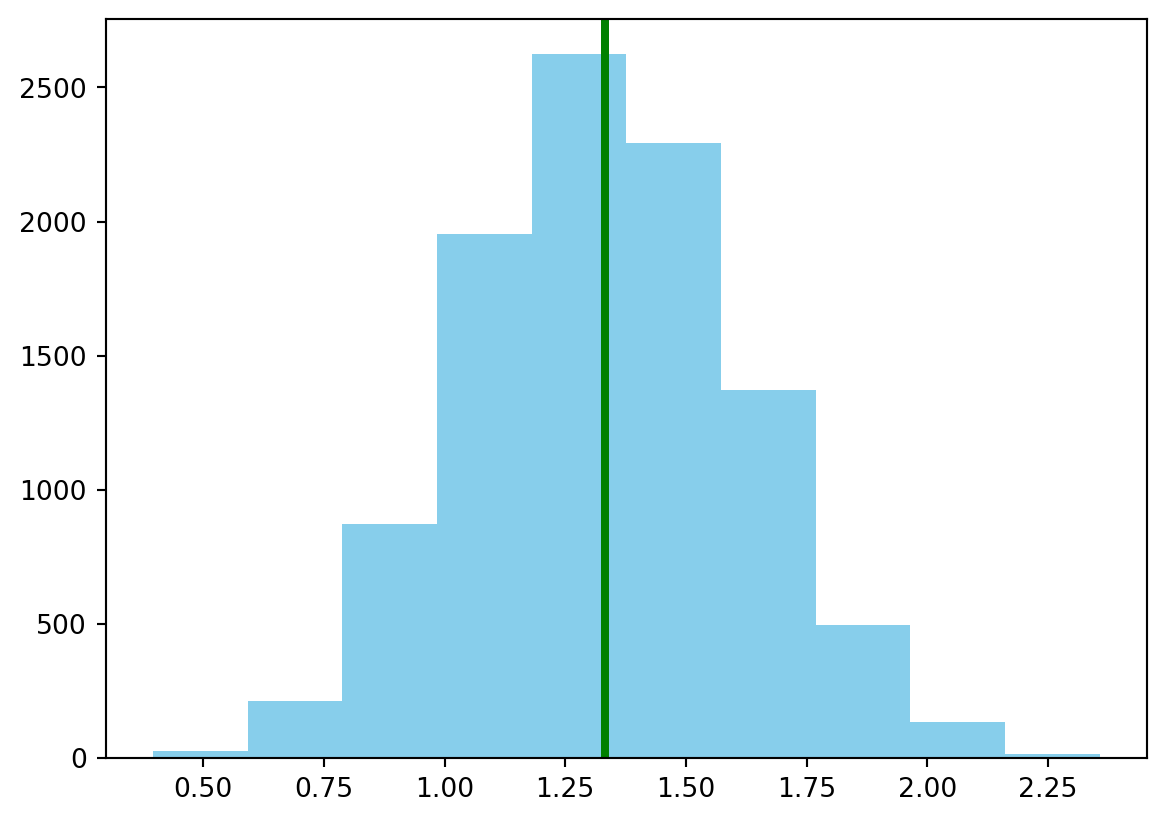
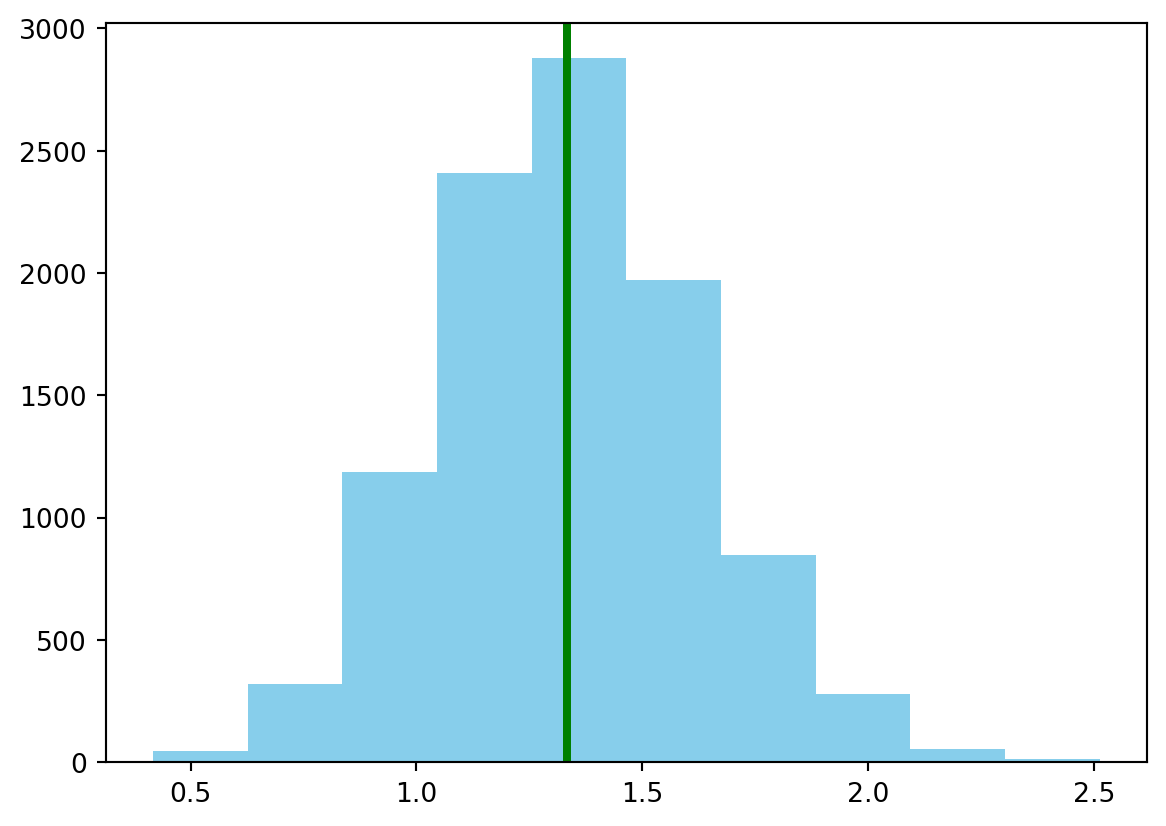
homework5

diff --git a/docs/posts/hw5/index.html b/docs/posts/hw5/index.html
@@ -203,7 +203,7 @@ pre > code.sourceCode > span > a:first-child::before { text-decoration: underlin
 </section>
 <section id="q1-1-n-1로-나눈-것을-s_2-n으로-나눈-것을-k_2로-정의하고-s_2의-분포와-k_2의-분포를-그려주세요-10000개-사용" class="level2">
 <h2 class="anchored" data-anchor-id="q1-1-n-1로-나눈-것을-s_2-n으로-나눈-것을-k_2로-정의하고-s_2의-분포와-k_2의-분포를-그려주세요-10000개-사용">Q1-1 n-1로 나눈 것을 s_2, n으로 나눈 것을 k_2로 정의하고, s_2의 분포와 k_2의 분포를 그려주세요! (10000개 사용)</h2>
-<div id="59c0f04f" class="cell" data-execution_count="1">
+<div id="782e0a3d" class="cell" data-execution_count="1">
 <div class="sourceCode cell-code" id="cb1"><pre class="sourceCode python code-with-copy"><code class="sourceCode python"><span id="cb1-1"><a href="#cb1-1" aria-hidden="true" tabindex="-1"></a><span class="im">from</span> scipy.stats <span class="im">import</span> uniform</span>
 <span id="cb1-2"><a href="#cb1-2" aria-hidden="true" tabindex="-1"></a><span class="im">import</span> numpy <span class="im">as</span> np</span>
 <span id="cb1-3"><a href="#cb1-3" aria-hidden="true" tabindex="-1"></a><span class="im">import</span> matplotlib.pyplot <span class="im">as</span> plt</span>
@@ -224,7 +224,7 @@ pre > code.sourceCode > span > a:first-child::before { text-decoration: underlin
 <div class="cell-output cell-output-display">
 <div>
 <figure class="figure">
-<p><img src="index_files/figure-html/cell-2-output-1.png" width="583" height="411" class="figure-img"></p>
+<p><img src="index_files/figure-html/cell-2-output-1.png" width="583" height="413" class="figure-img"></p>
 </figure>
 </div>
 </div>
@@ -232,7 +232,7 @@ pre > code.sourceCode > span > a:first-child::before { text-decoration: underlin
 <pre><code>&lt;Figure size 672x480 with 0 Axes&gt;</code></pre>
 </div>
 </div>
-<div id="d1550427" class="cell" data-execution_count="2">
+<div id="72afce03" class="cell" data-execution_count="2">
 <div class="sourceCode cell-code" id="cb3"><pre class="sourceCode python code-with-copy"><code class="sourceCode python"><span id="cb3-1"><a href="#cb3-1" aria-hidden="true" tabindex="-1"></a><span class="im">from</span> scipy.stats <span class="im">import</span> uniform</span>
 <span id="cb3-2"><a href="#cb3-2" aria-hidden="true" tabindex="-1"></a><span class="im">import</span> numpy <span class="im">as</span> np</span>
 <span id="cb3-3"><a href="#cb3-3" aria-hidden="true" tabindex="-1"></a><span class="im">import</span> matplotlib.pyplot <span class="im">as</span> plt</span>
@@ -264,32 +264,23 @@ pre > code.sourceCode > span > a:first-child::before { text-decoration: underlin
 </section>
 <section id="q1-2-각-분포-그래프에-모분산의-위치에-녹색-막대를-그려주세요." class="level2">
 <h2 class="anchored" data-anchor-id="q1-2-각-분포-그래프에-모분산의-위치에-녹색-막대를-그려주세요.">Q1-2 각 분포 그래프에 모분산의 위치에 녹색 막대를 그려주세요.</h2>
-<div id="896c6554" class="cell" data-execution_count="3">
+<div id="1244ebe8" class="cell" data-execution_count="3">
 <div class="sourceCode cell-code" id="cb5"><pre class="sourceCode python code-with-copy"><code class="sourceCode python"><span id="cb5-1"><a href="#cb5-1" aria-hidden="true" tabindex="-1"></a><span class="im">from</span> scipy.stats <span class="im">import</span> uniform</span>
-<span id="cb5-2"><a href="#cb5-2" aria-hidden="true" tabindex="-1"></a><span class="im">import</span> numpy <span class="im">as</span> np</span>
-<span id="cb5-3"><a href="#cb5-3" aria-hidden="true" tabindex="-1"></a><span class="im">import</span> matplotlib.pyplot <span class="im">as</span> plt</span>
+<span id="cb5-2"><a href="#cb5-2" aria-hidden="true" tabindex="-1"></a><span class="im">import</span> matplotlib.pyplot <span class="im">as</span> plt</span>
+<span id="cb5-3"><a href="#cb5-3" aria-hidden="true" tabindex="-1"></a></span>
 <span id="cb5-4"><a href="#cb5-4" aria-hidden="true" tabindex="-1"></a></span>
-<span id="cb5-5"><a href="#cb5-5" aria-hidden="true" tabindex="-1"></a><span class="co"># X ~ U(3,7)</span></span>
-<span id="cb5-6"><a href="#cb5-6" aria-hidden="true" tabindex="-1"></a><span class="co"># 균일분포에선 loc = a, scale = b - a</span></span>
-<span id="cb5-7"><a href="#cb5-7" aria-hidden="true" tabindex="-1"></a></span>
-<span id="cb5-8"><a href="#cb5-8" aria-hidden="true" tabindex="-1"></a>x <span class="op">=</span> uniform.rvs(loc <span class="op">=</span> <span class="dv">3</span>, scale <span class="op">=</span> <span class="dv">4</span>, size <span class="op">=</span> <span class="dv">20</span> <span class="op">*</span> <span class="dv">10000</span>)</span>
-<span id="cb5-9"><a href="#cb5-9" aria-hidden="true" tabindex="-1"></a>x <span class="op">=</span> x.reshape(<span class="op">-</span><span class="dv">1</span>, <span class="dv">20</span>)</span>
+<span id="cb5-5"><a href="#cb5-5" aria-hidden="true" tabindex="-1"></a>plt.hist(s_2, color <span class="op">=</span> <span class="st">"skyblue"</span>)</span>
+<span id="cb5-6"><a href="#cb5-6" aria-hidden="true" tabindex="-1"></a></span>
+<span id="cb5-7"><a href="#cb5-7" aria-hidden="true" tabindex="-1"></a>v <span class="op">=</span> uniform.var(loc <span class="op">=</span> <span class="dv">3</span>, scale <span class="op">=</span> <span class="dv">4</span>)</span>
+<span id="cb5-8"><a href="#cb5-8" aria-hidden="true" tabindex="-1"></a></span>
+<span id="cb5-9"><a href="#cb5-9" aria-hidden="true" tabindex="-1"></a>plt.axvline(x <span class="op">=</span> v, color <span class="op">=</span> <span class="st">"green"</span>, linestyle <span class="op">=</span> <span class="st">"-"</span>, linewidth <span class="op">=</span> <span class="dv">3</span>)</span>
 <span id="cb5-10"><a href="#cb5-10" aria-hidden="true" tabindex="-1"></a></span>
-<span id="cb5-11"><a href="#cb5-11" aria-hidden="true" tabindex="-1"></a>s_2 <span class="op">=</span> np.var(x, axis <span class="op">=</span> <span class="dv">1</span>, ddof <span class="op">=</span> <span class="dv">1</span>) </span>
-<span id="cb5-12"><a href="#cb5-12" aria-hidden="true" tabindex="-1"></a>s_2</span>
-<span id="cb5-13"><a href="#cb5-13" aria-hidden="true" tabindex="-1"></a></span>
-<span id="cb5-14"><a href="#cb5-14" aria-hidden="true" tabindex="-1"></a>plt.hist(s_2, color <span class="op">=</span> <span class="st">"skyblue"</span>)</span>
-<span id="cb5-15"><a href="#cb5-15" aria-hidden="true" tabindex="-1"></a></span>
-<span id="cb5-16"><a href="#cb5-16" aria-hidden="true" tabindex="-1"></a>v <span class="op">=</span> uniform.var(loc <span class="op">=</span> <span class="dv">3</span>, scale <span class="op">=</span> <span class="dv">4</span>)</span>
-<span id="cb5-17"><a href="#cb5-17" aria-hidden="true" tabindex="-1"></a></span>
-<span id="cb5-18"><a href="#cb5-18" aria-hidden="true" tabindex="-1"></a>plt.axvline(x <span class="op">=</span> v, color <span class="op">=</span> <span class="st">"green"</span>, linestyle <span class="op">=</span> <span class="st">"-"</span>, linewidth <span class="op">=</span> <span class="dv">3</span>)</span>
-<span id="cb5-19"><a href="#cb5-19" aria-hidden="true" tabindex="-1"></a></span>
-<span id="cb5-20"><a href="#cb5-20" aria-hidden="true" tabindex="-1"></a>plt.show()</span>
-<span id="cb5-21"><a href="#cb5-21" aria-hidden="true" tabindex="-1"></a>plt.clf()</span></code><button title="Copy to Clipboard" class="code-copy-button"><i class="bi"></i></button></pre></div>
+<span id="cb5-11"><a href="#cb5-11" aria-hidden="true" tabindex="-1"></a>plt.show()</span>
+<span id="cb5-12"><a href="#cb5-12" aria-hidden="true" tabindex="-1"></a>plt.clf()</span></code><button title="Copy to Clipboard" class="code-copy-button"><i class="bi"></i></button></pre></div>
 <div class="cell-output cell-output-display">
 <div>
 <figure class="figure">
-<p><img src="index_files/figure-html/cell-4-output-1.png" width="583" height="411" class="figure-img"></p>
+<p><img src="index_files/figure-html/cell-4-output-1.png" width="583" height="413" class="figure-img"></p>
 </figure>
 </div>
 </div>
@@ -297,28 +288,19 @@ pre > code.sourceCode > span > a:first-child::before { text-decoration: underlin
 <pre><code>&lt;Figure size 672x480 with 0 Axes&gt;</code></pre>
 </div>
 </div>
-<div id="4de7c185" class="cell" data-execution_count="4">
+<div id="2e0d17bd" class="cell" data-execution_count="4">
 <div class="sourceCode cell-code" id="cb7"><pre class="sourceCode python code-with-copy"><code class="sourceCode python"><span id="cb7-1"><a href="#cb7-1" aria-hidden="true" tabindex="-1"></a><span class="im">from</span> scipy.stats <span class="im">import</span> uniform</span>
-<span id="cb7-2"><a href="#cb7-2" aria-hidden="true" tabindex="-1"></a><span class="im">import</span> numpy <span class="im">as</span> np</span>
-<span id="cb7-3"><a href="#cb7-3" aria-hidden="true" tabindex="-1"></a><span class="im">import</span> matplotlib.pyplot <span class="im">as</span> plt</span>
+<span id="cb7-2"><a href="#cb7-2" aria-hidden="true" tabindex="-1"></a><span class="im">import</span> matplotlib.pyplot <span class="im">as</span> plt</span>
+<span id="cb7-3"><a href="#cb7-3" aria-hidden="true" tabindex="-1"></a></span>
 <span id="cb7-4"><a href="#cb7-4" aria-hidden="true" tabindex="-1"></a></span>
-<span id="cb7-5"><a href="#cb7-5" aria-hidden="true" tabindex="-1"></a><span class="co"># X ~ U(3,7)</span></span>
-<span id="cb7-6"><a href="#cb7-6" aria-hidden="true" tabindex="-1"></a><span class="co"># 균일분포에선 loc = a, scale = b - a</span></span>
-<span id="cb7-7"><a href="#cb7-7" aria-hidden="true" tabindex="-1"></a></span>
-<span id="cb7-8"><a href="#cb7-8" aria-hidden="true" tabindex="-1"></a>x <span class="op">=</span> uniform.rvs(loc <span class="op">=</span> <span class="dv">3</span>, scale <span class="op">=</span> <span class="dv">4</span>, size <span class="op">=</span> <span class="dv">20</span> <span class="op">*</span> <span class="dv">10000</span>)</span>
-<span id="cb7-9"><a href="#cb7-9" aria-hidden="true" tabindex="-1"></a>x <span class="op">=</span> x.reshape(<span class="op">-</span><span class="dv">1</span>, <span class="dv">20</span>)</span>
+<span id="cb7-5"><a href="#cb7-5" aria-hidden="true" tabindex="-1"></a>plt.hist(k_2, color <span class="op">=</span> <span class="st">"navy"</span>)</span>
+<span id="cb7-6"><a href="#cb7-6" aria-hidden="true" tabindex="-1"></a></span>
+<span id="cb7-7"><a href="#cb7-7" aria-hidden="true" tabindex="-1"></a>v <span class="op">=</span> uniform.var(loc <span class="op">=</span> <span class="dv">3</span>, scale <span class="op">=</span> <span class="dv">4</span>)</span>
+<span id="cb7-8"><a href="#cb7-8" aria-hidden="true" tabindex="-1"></a></span>
+<span id="cb7-9"><a href="#cb7-9" aria-hidden="true" tabindex="-1"></a>plt.axvline(x <span class="op">=</span> v, color <span class="op">=</span> <span class="st">"green"</span>, linestyle <span class="op">=</span> <span class="st">"-"</span>, linewidth <span class="op">=</span> <span class="dv">3</span>)</span>
 <span id="cb7-10"><a href="#cb7-10" aria-hidden="true" tabindex="-1"></a></span>
-<span id="cb7-11"><a href="#cb7-11" aria-hidden="true" tabindex="-1"></a>k_2 <span class="op">=</span> np.var(x, axis <span class="op">=</span> <span class="dv">1</span>, ddof <span class="op">=</span> <span class="dv">0</span>) </span>
-<span id="cb7-12"><a href="#cb7-12" aria-hidden="true" tabindex="-1"></a>k_2</span>
-<span id="cb7-13"><a href="#cb7-13" aria-hidden="true" tabindex="-1"></a></span>
-<span id="cb7-14"><a href="#cb7-14" aria-hidden="true" tabindex="-1"></a>plt.hist(k_2, color <span class="op">=</span> <span class="st">"navy"</span>)</span>
-<span id="cb7-15"><a href="#cb7-15" aria-hidden="true" tabindex="-1"></a></span>
-<span id="cb7-16"><a href="#cb7-16" aria-hidden="true" tabindex="-1"></a>v <span class="op">=</span> uniform.var(loc <span class="op">=</span> <span class="dv">3</span>, scale <span class="op">=</span> <span class="dv">4</span>)</span>
-<span id="cb7-17"><a href="#cb7-17" aria-hidden="true" tabindex="-1"></a></span>
-<span id="cb7-18"><a href="#cb7-18" aria-hidden="true" tabindex="-1"></a>plt.axvline(x <span class="op">=</span> v, color <span class="op">=</span> <span class="st">"green"</span>, linestyle <span class="op">=</span> <span class="st">"-"</span>, linewidth <span class="op">=</span> <span class="dv">3</span>)</span>
-<span id="cb7-19"><a href="#cb7-19" aria-hidden="true" tabindex="-1"></a></span>
-<span id="cb7-20"><a href="#cb7-20" aria-hidden="true" tabindex="-1"></a>plt.show()</span>
-<span id="cb7-21"><a href="#cb7-21" aria-hidden="true" tabindex="-1"></a>plt.clf()</span></code><button title="Copy to Clipboard" class="code-copy-button"><i class="bi"></i></button></pre></div>
+<span id="cb7-11"><a href="#cb7-11" aria-hidden="true" tabindex="-1"></a>plt.show()</span>
+<span id="cb7-12"><a href="#cb7-12" aria-hidden="true" tabindex="-1"></a>plt.clf()</span></code><button title="Copy to Clipboard" class="code-copy-button"><i class="bi"></i></button></pre></div>
 <div class="cell-output cell-output-display">
 <div>
 <figure class="figure">

diff --git a/docs/blog.html b/docs/blog.html
@@ -202,7 +202,7 @@ window.Quarto = {
 
 <div class="quarto-listing quarto-listing-container-default" id="listing-listing">
 <div class="list quarto-listing-default">
-<div class="quarto-post image-right" data-index="0" data-categories="bigdata" data-listing-date-sort="1722178800000" data-listing-file-modified-sort="1722269431669" data-listing-date-modified-sort="NaN" data-listing-reading-time-sort="2" data-listing-word-count-sort="316">
+<div class="quarto-post image-right" data-index="0" data-categories="bigdata" data-listing-date-sort="1722178800000" data-listing-file-modified-sort="1722269809757" data-listing-date-modified-sort="NaN" data-listing-reading-time-sort="2" data-listing-word-count-sort="238">
 <div class="thumbnail">
 <p><a href="./posts/hw5/index.html" class="no-external"></a></p><a href="./posts/hw5/index.html" class="no-external">
 <p class="card-img-top"><img src="posts\hw5\index_files\figure-html\cell-2-output-1.png"  class="thumbnail-image card-img"/></p>
